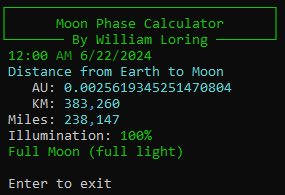
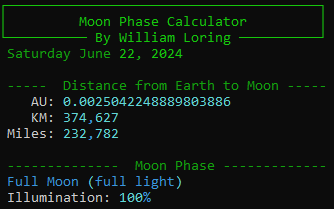
Update

diff --git a/moon_phase_cli.py b/moon_phase_cli.py
@@ -33,8 +33,9 @@ class MoonPhase:
         self.mc.get_observer()
 
         # Display moon information
-        console.print(f"[cyan]{self.mc.formatted_time}[/cyan]")
-        console.print(f"[cyan] --  Distance from Earth to Moon --[/cyan]")
+        console.print(f"[green]{self.mc.formatted_time}[/green]")
+        print()
+        console.print(f"[green] -----  Distance from Earth to Moon -----[/green]")
         console.print(f"    AU: [cyan]{self.mc.earth_to_moon}[/cyan]")
         console.print(f"    KM: [cyan]{self.mc.km_to_moon:,.0f}[/cyan]")
         console.print(f" Miles: [cyan]{self.mc.miles_to_moon:,.0f}[/cyan]"
@@ -42,12 +43,12 @@ class MoonPhase:
         print()
 
         console.print(
-            f"[green] -----------  Moon Phase ----------[/green]"
+            f"[green] --------------  Moon Phase -------------[/green]"
         )
 
-        console.print(f" [green]{self.mc.phase_description}[/green]")
+        console.print(f" [cyan]{self.mc.phase_description}[/cyan]")
         console.print(
-            f" Illumination: [green]{self.mc.illumination:.0f}%[/green]"
+            f" Illumination: [cyan]{self.mc.illumination:.0f}%[/cyan]"
         )
 
         print()

diff --git a/moon_class.py b/moon_class.py
@@ -197,7 +197,7 @@ class MoonClass:
         """
         if os.name == "nt":
             self._formatted_time = dte.strftime(
-                " %#m/%#d/%Y"
+                " %A %B %#d, %Y"
             )
         else:
             self._formatted_time = dte.strftime(
